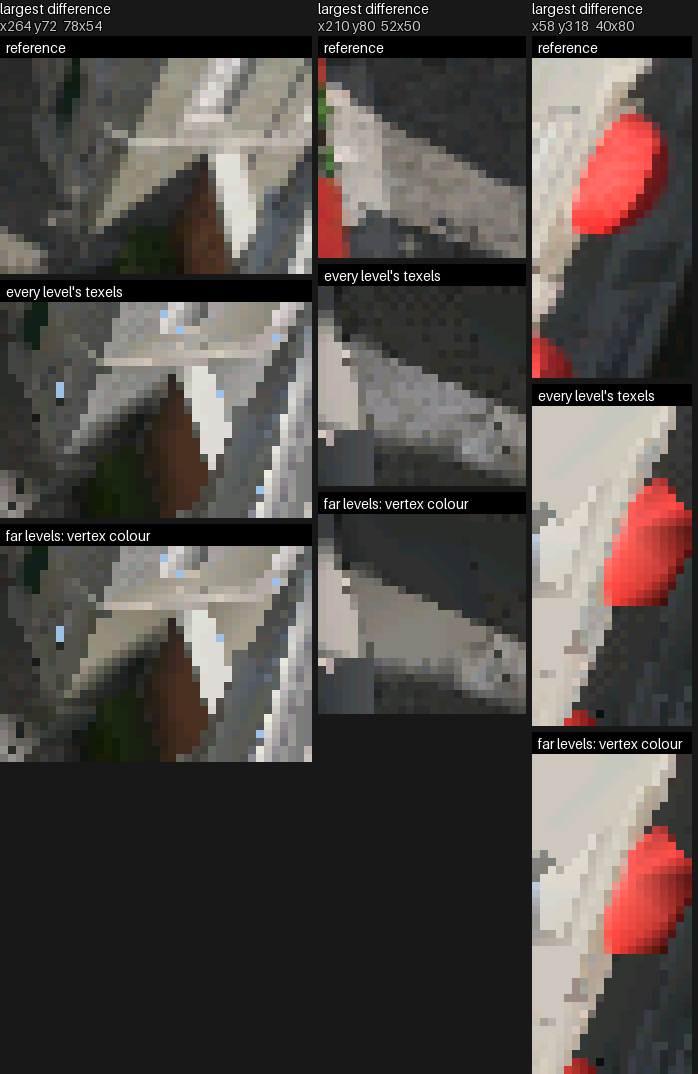
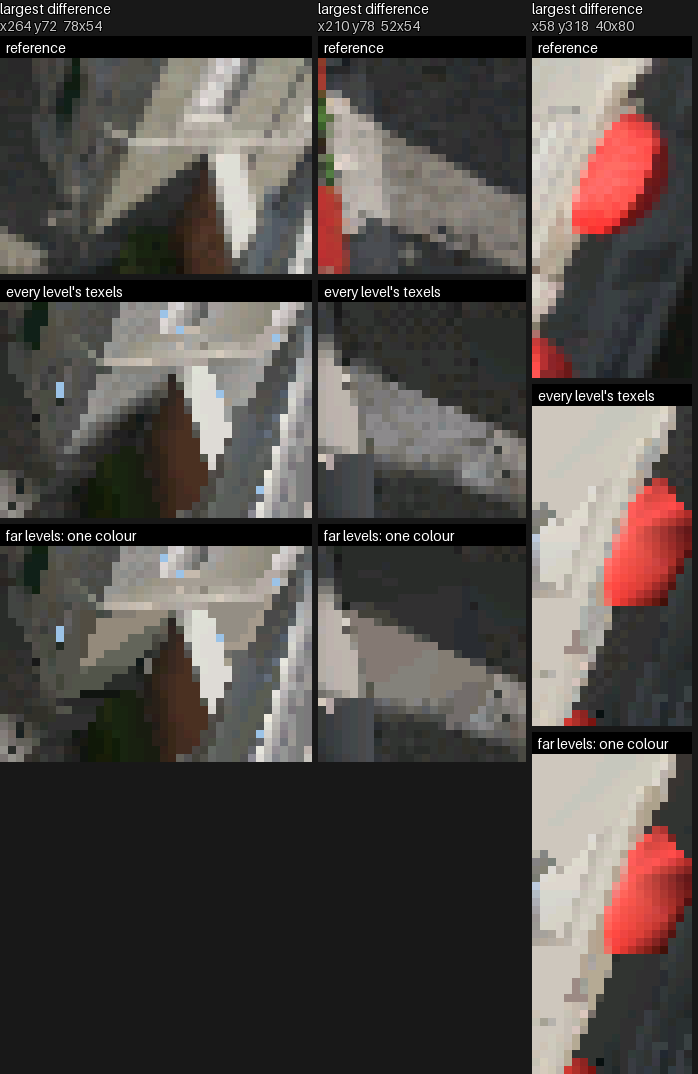
render: a far level draws flat in its corners' mean, the faster fill on the board (we46)
r3d_span_triangle_mean() fills a far triangle solid in one colour, capped
under skip_hidden, then its writers; set_flat shares r3d_span_mean_rgb().
The raster stage split test logs out of line to keep the stack reserve.

diff --git a/launcher/main/apps/render_lab/tests/suite_raster_scale_perf.c b/launcher/main/apps/render_lab/tests/suite_raster_scale_perf.c
@@ -141,6 +141,29 @@ timed_pose(raster_t* raster, gfx_color_t* destination, int32_t* frame_us) {
     return stats.triangles;
 }
 
+/* The log lines of one measured size; its mean frame time. Out of line, so
+ * the varargs frames are off the stack while the raster draws. */
+static __attribute__((noinline)) int64_t
+report_size(resolution_step_t size, int poses, int64_t triangles, int32_t* frame_us, const char* report,
+            const span_split_t* spans) {
+    int64_t sum = 0;
+    for (int i = 0; i < poses; i++) {
+        sum += frame_us[i];
+    }
+    ESP_LOGI(TAG,
+             "scale_split: %dx%d poses=%d tris=%lld frame mean/p50/max us %lld/%ld/%ld | %s" LAB_PERF_QUARTER_FORMAT,
+             size.width, size.height, poses, (long long)(triangles / poses), (long long)(sum / poses),
+             (long)statsi_median(frame_us, (size_t)poses), (long)statsi_percentile(frame_us, (size_t)poses, 100),
+             report, perf_quarter->name);
+    ESP_LOGI(TAG,
+             "scale_spans: %dx%d one core us/pose setup %lld edges %lld carry %lld fill %lld clear "
+             "%lld" LAB_PERF_QUARTER_FORMAT,
+             size.width, size.height, (long long)(spans->setup / poses), (long long)(spans->edges / poses),
+             (long long)(spans->carry / poses), (long long)(spans->fill / poses), (long long)(spans->clear / poses),
+             perf_quarter->name);
+    return sum / poses;
+}
+
 static int64_t
 measure_size(raster_t* raster, gfx_color_t* destination, resolution_step_t size, int32_t* frame_us, char* report) {
     size = raster_present_size(size, lab_view_present(&render_lab_view_tunables));
@@ -164,23 +187,9 @@ measure_size(raster_t* raster, gfx_color_t* destination, resolution_step_t size,
         add_span_split(raster, spans);
     }
 
-    int64_t sum = 0;
-    for (int i = 0; i < poses; i++) {
-        sum += frame_us[i];
-    }
-    ESP_LOGI(TAG,
-             "scale_split: %dx%d poses=%d tris=%lld frame mean/p50/max us %lld/%ld/%ld | %s" LAB_PERF_QUARTER_FORMAT,
-             size.width, size.height, poses, (long long)(triangles / poses), (long long)(sum / poses),
-             (long)statsi_median(frame_us, (size_t)poses), (long)statsi_percentile(frame_us, (size_t)poses, 100),
-             report, perf_quarter->name);
-    ESP_LOGI(TAG,
-             "scale_spans: %dx%d one core us/pose setup %lld edges %lld carry %lld fill %lld clear "
-             "%lld" LAB_PERF_QUARTER_FORMAT,
-             size.width, size.height, (long long)(spans->setup / poses), (long long)(spans->edges / poses),
-             (long long)(spans->carry / poses), (long long)(spans->fill / poses), (long long)(spans->clear / poses),
-             perf_quarter->name);
+    const int64_t mean = report_size(size, poses, triangles, frame_us, report, spans);
     memory_free(spans);
-    return sum / poses;
+    return mean;
 }
 
 /* Whether step `step` of ladder `ladder` is a size an earlier step, of this

diff --git a/launcher/test/suites/suite_r3d_texture.c b/launcher/test/suites/suite_r3d_texture.c
@@ -272,18 +272,27 @@ test_minified_triangle_takes_the_matching_level(void) {
 #define DARK_INDEX    1      /* a colour far from the mean */
 static const vec2f_t minified[3] = {{0, 0}, {4 * SIDE, 0}, {0, 4 * SIDE}};
 
-/* A level from far_level on draws what the plain fill draws for the same
- * corners, and reads no texel: its texels are made dark first. */
+/* Corner greys apart, so their mean is none of them. */
+#define FAR_GREY_A 60.0F
+#define FAR_GREY_B 120.0F
+#define FAR_GREY_C 240.0F
+
+/* A level from far_level on draws one colour, its corners' mean, over the
+ * pixels the solid fill covers, and reads no texel: its texels are made dark
+ * first. */
 static void
-test_a_far_level_draws_as_the_plain_fill(void) {
+test_a_far_level_draws_flat_in_its_corners_mean(void) {
     fixture();
     clear();
-    r3d_span_target_t plain = target_at(1);
-    const r3d_span_vertex_t a = vertex(0, 0, 0.5F, FAR_GREY), b = vertex(SIDE, 0, 0.5F, FAR_GREY),
-                            c = vertex(0, SIDE, 0.5F, FAR_GREY);
-    r3d_span_triangle(&plain, &a, &b, &c);
+    const r3d_span_vertex_t a = vertex(0, 0, 0.5F, FAR_GREY_A), b = vertex(SIDE, 0, 0.5F, FAR_GREY_B),
+                            c = vertex(0, SIDE, 0.5F, FAR_GREY_C);
+    const float mean = (FAR_GREY_A + FAR_GREY_B + FAR_GREY_C) / 3.0F; /* magic: three corners */
+    r3d_span_target_t solid = target_at(1);
+    r3d_span_triangle_solid(&solid, &a, &b, &c, r3d_span_pack_rgb(mean, mean, mean));
     memset(ltex + LEVEL_2_OFF, (DARK_INDEX << 4) | DARK_INDEX, LEVEL_2_BYTES); /* magic: two INDEX4 texels a byte */
-    draw_corner_far(0, FAR_GREY, minified, LEVEL_2);
+    r3d_span_target_t far = target_at(0);
+    far.texture_far_level = LEVEL_2;
+    r3d_span_textured_triangle(&far, &a, &b, &c, minified, texture);
     TEST_ASSERT_EQUAL_UINT16_ARRAY(buffers + (2 * PIXELS), buffers, 2 * PIXELS);
 }
 
@@ -2617,7 +2626,7 @@ run_r3d_texture_suite(void) {
     RUN_TEST(test_shared_edge_neither_cracks_nor_overlaps);
     RUN_TEST(test_affine_samples_the_texel_under_each_centre);
     RUN_TEST(test_minified_triangle_takes_the_matching_level);
-    RUN_TEST(test_a_far_level_draws_as_the_plain_fill);
+    RUN_TEST(test_a_far_level_draws_flat_in_its_corners_mean);
     RUN_TEST(test_a_far_level_under_skip_hidden_is_capped);
     RUN_TEST(test_a_level_before_far_level_reads_its_texels);
     RUN_TEST(test_a_mask1_triangle_at_the_far_level_keeps_its_holes);

diff --git a/launcher/tools/r3d/texture/texture_figures.py b/launcher/tools/r3d/texture/texture_figures.py
@@ -16,7 +16,7 @@ most from it: a row per square, a column per value, each headed with its CIE76 d
 Its draws read every level's texels (texture.far_level 0), so they differ by the divide alone.
 
 --far-image writes path frame --far-frame textured with every level's texels and with the default texture.far_level,
-whose far levels draw untextured, in the vertex colour, beside the source, as the first sheet, with its crops.
+whose far levels draw untextured, one colour a triangle, beside the source, as the first sheet, with its crops.
 """
 import argparse
 import pathlib
@@ -52,7 +52,7 @@ NEAR_SHARE = 1 / 3
 DIVIDE_TUNABLE = "render.texture_divide_px"
 AFFINE_TUNABLE = "render.texture_bend_steps"
 TRUTH = 1
-# The tunable of the first level drawn untextured, in the vertex colour; 0 textures every level.
+# The tunable of the first level drawn untextured, one colour a triangle; 0 textures every level.
 FAR_TUNABLE = "render.texture_far_level"
 EVERY_LEVEL = 0
 # Squares the divide sheet zooms on.
@@ -159,7 +159,7 @@ def far_sheet(args, fit, work):
     far = draw(args, True, work, "far_default", args.far_frame)
     source = reference(args, name, Image.open(every).size, work)
     run([sys.executable, COMPARE, "--out", args.out / args.far_image, "--reference-stills", args.far_title, source,
-         every, far, "--label-a", "every level's texels", "--label-b", "far levels: vertex colour", "--crops", CROPS])
+         every, far, "--label-a", "every level's texels", "--label-b", "far levels: one colour", "--crops", CROPS])
 
 
 def main(argv=None):

diff --git a/launcher/main/render/texture/r3d_texture.h b/launcher/main/render/texture/r3d_texture.h
@@ -112,24 +112,16 @@ r3d_texture_level_bytes(unsigned format, int side_log2) {
 bool r3d_span_textured_fill(const r3d_span_target_t* target, const r3d_span_vertex_t* a, const r3d_span_vertex_t* b,
                             const r3d_span_vertex_t* c, const vec2f_t uv[3], const r3d_texture_t* texture);
 
-/* r3d_span_textured_fill(), and a far level it leaves drawn by the plain
- * fill in the vertex colour, capped when target->skip_hidden, then its
- * writers. Inline, so the textured fill's frame is gone before the plain
- * fill's stacks up. */
+/* r3d_span_textured_fill(), and a far level it leaves to
+ * r3d_span_triangle_mean(). Inline, so the textured fill's frame is gone
+ * before the solid fill's stacks up. */
 static inline __attribute__((always_inline)) void
 r3d_span_textured_triangle(const r3d_span_target_t* target, const r3d_span_vertex_t* a, const r3d_span_vertex_t* b,
                            const r3d_span_vertex_t* c, const vec2f_t uv[3], const r3d_texture_t* texture) {
     if (r3d_span_textured_fill(target, a, b, c, uv, texture)) {
         return;
     }
-    if (target->skip_hidden) {
-        r3d_span_capped_triangle(target, a, b, c, NULL);
-    } else {
-        r3d_span_triangle(target, a, b, c);
-    }
-    if (target->writer_count != 0) {
-        r3d_span_triangle_write(target, a, b, c, false);
-    }
+    r3d_span_triangle_mean(target, a, b, c);
 }
 
 /* The pixels between u and v's divides by depth that r3d_span_textured_fill()

diff --git a/launcher/main/render/r3d_span.c b/launcher/main/render/r3d_span.c
@@ -458,8 +458,7 @@ static inline void
 set_flat(fill_t* f, const r3d_span_vertex_t* a, const r3d_span_vertex_t* b, const r3d_span_vertex_t* c) {
     const float third = 1.0F / (float)TRIANGLE_VERTICES;
     f->flat_z = (uint16_t)(mathf_clamp((a->z + b->z + c->z) * third, 0.0F, 1.0F) * (float)R3D_DEPTH_NEAREST);
-    f->flat_color =
-        r3d_span_pack_rgb((a->r + b->r + c->r) * third, (a->g + b->g + c->g) * third, (a->b + b->b + c->b) * third);
+    f->flat_color = r3d_span_mean_rgb(a, b, c);
 }
 
 static inline int32_t
@@ -952,4 +951,18 @@ void
 r3d_span_capped_triangle(const r3d_span_target_t* target, const r3d_span_vertex_t* a, const r3d_span_vertex_t* b,
                          const r3d_span_vertex_t* c, const uint16_t* face) {
     r3d_span_capped_triangle_impl(target, a, b, c, face);
+}
+
+void
+r3d_span_triangle_mean(const r3d_span_target_t* target, const r3d_span_vertex_t* a, const r3d_span_vertex_t* b,
+                       const r3d_span_vertex_t* c) {
+    const uint16_t face = r3d_span_mean_rgb(a, b, c);
+    if (target->skip_hidden) {
+        r3d_span_capped_triangle_impl(target, a, b, c, &face);
+    } else {
+        r3d_span_triangle_impl(target, a, b, c, &face);
+    }
+    if (target->writer_count != 0) {
+        r3d_span_triangle_write(target, a, b, c, true);
+    }
 }

diff --git a/launcher/main/render/code_layout.h b/launcher/main/render/code_layout.h
@@ -19,12 +19,12 @@
  * flash each of its calls missed the instruction cache. IRAM has no cache
  * line to place a loop on, so the render sources' cache-line function
  * alignment would only waste IRAM; 4 bytes keeps entries aligned.
- * IRAM budget: release 7389 B, dev 7385 B, diag 7385 B */
+ * IRAM budget: 7408 B */
 #define RENDER_IRAM_ATTR   IRAM_ATTR __attribute__((aligned(4)))
 /* The draw path's copies for a view that skips clusters behind drawn depth
  * (render_view_t.skip_hidden), placed with the draw path. IRAM is granted per
  * measured ms saved per KB, the largest free internal block noted with it.
- * IRAM budget: release 4475 B, dev 4479 B, diag 4479 B */
+ * IRAM budget: release 4463 B, dev 4467 B, diag 4467 B */
 #define RENDER_SKIP_ATTR   RENDER_IRAM_ATTR
 /* The fill and row walk of a textured triangle that divides u and v by
  * depth, placed with the draw path as RENDER_SKIP_ATTR is: in IRAM they take

diff --git a/launcher/main/render/r3d_span.h b/launcher/main/render/r3d_span.h
@@ -128,6 +128,12 @@ void r3d_span_triangle(const r3d_span_target_t* target, const r3d_span_vertex_t*
 void r3d_span_triangle_solid(const r3d_span_target_t* target, const r3d_span_vertex_t* a, const r3d_span_vertex_t* b,
                              const r3d_span_vertex_t* c, uint16_t color);
 
+/* The solid fill in one colour, the corners' mean, capped as
+ * r3d_span_capped_triangle() when target->skip_hidden, then the target's
+ * writers over it. */
+void r3d_span_triangle_mean(const r3d_span_target_t* target, const r3d_span_vertex_t* a, const r3d_span_vertex_t* b,
+                            const r3d_span_vertex_t* c);
+
 /* Either fill, `face` NULL or its colour, writing no depth nearer than
  * r3d_span_depth_limit() of the nearest vertex: what a skip of whole clusters
  * behind drawn depth relies on. */

diff --git a/launcher/main/render/r3d_span_internal.h b/launcher/main/render/r3d_span_internal.h
@@ -159,6 +159,13 @@ r3d_span_pack_rgb(float r, float g, float b) {
                          (int32_t)(mathf_clamp(b, 0.0F, UINT8_MAX) * R3D_SPAN_COLOR_SCALE));
 }
 
+/* A triangle's face colour: its corners' mean, packed. */
+static inline uint16_t
+r3d_span_mean_rgb(const r3d_span_vertex_t* a, const r3d_span_vertex_t* b, const r3d_span_vertex_t* c) {
+    const float third = 1.0F / 3.0F; /* magic: a triangle's three corners */
+    return r3d_span_pack_rgb((a->r + b->r + c->r) * third, (a->g + b->g + c->g) * third, (a->b + b->b + c->b) * third);
+}
+
 static inline int32_t
 r3d_span_min3(int32_t a, int32_t b, int32_t c) {
     return a < b ? (a < c ? a : c) : (b < c ? b : c);

diff --git a/launcher/main/render/texture/r3d_span_textured.c b/launcher/main/render/texture/r3d_span_textured.c
@@ -5,8 +5,8 @@
  * texture.divide_px pixels or more (render settings) and steps affine
  * between; 0 steps affine across the span. A pixel is one colormap load: the
  * texel's colour at the vertex light's dithered level. An INDEX4 level from
- * texture.far_level on draws untextured, the plain fill's vertex colour: the
- * surface's mean lit colour. A MASK1 texture's span steps affine, skips the
+ * texture.far_level on draws untextured in one colour, its corners' mean:
+ * the surface's mean lit colour. A MASK1 texture's span steps affine, skips the
  * pixels whose texel is 0 and draws the rest in its one colour.
  */
 #include "render/texture/r3d_texture.h"

diff --git a/launcher/main/render/settings/render_settings.h b/launcher/main/render/settings/render_settings.h
@@ -59,7 +59,7 @@ typedef struct {
 typedef struct {
     int divide_px; /* basic: fewest pixels between divides by depth, fewer cost more; 0 is affine, near surfaces bend */
     float affine_bend; /* advanced: texels a triangle may bend and still step affine; larger is faster, bends more */
-    int far_level; /* basic: first mip level drawn untextured, in the vertex colour; lower is faster; 0 textures every level */
+    int far_level; /* basic: first mip level drawn untextured, one colour a triangle; lower is faster; 0 textures every level */
 } render_texture_settings_t;
 
 typedef struct {

diff --git a/launcher/test/suites/suite_r3d_style_pipeline.c b/launcher/test/suites/suite_r3d_style_pipeline.c
@@ -3,6 +3,7 @@
 #define r3d_span_small_fill_default    constant_default
 #define r3d_span_triangle              constant_r3d_span_triangle
 #define r3d_span_triangle_solid        constant_r3d_span_triangle_solid
+#define r3d_span_triangle_mean         constant_r3d_span_triangle_mean
 #define r3d_span_triangle_write        constant_r3d_span_triangle_write
 #define r3d_span_capped_triangle       constant_r3d_span_capped_triangle
 #define r3d_span_hidden                constant_r3d_span_hidden

diff --git a/launcher/test/suites/suite_render_settings.c b/launcher/test/suites/suite_render_settings.c
@@ -118,7 +118,7 @@ cull_off(void) {
 
 #define SHIPPED_FAR_LEVEL 3 /* the first mip level the default draws untextured */
 
-/* The shipped default draws mip level 3 on in the vertex colour, not 0 (off): a
+/* The shipped default draws mip level 3 on in one colour a triangle, not 0 (off): a
  * texture's far levels read no texels unless a pack or knob says otherwise. */
 static void
 test_the_default_far_level_is_three(void) {
